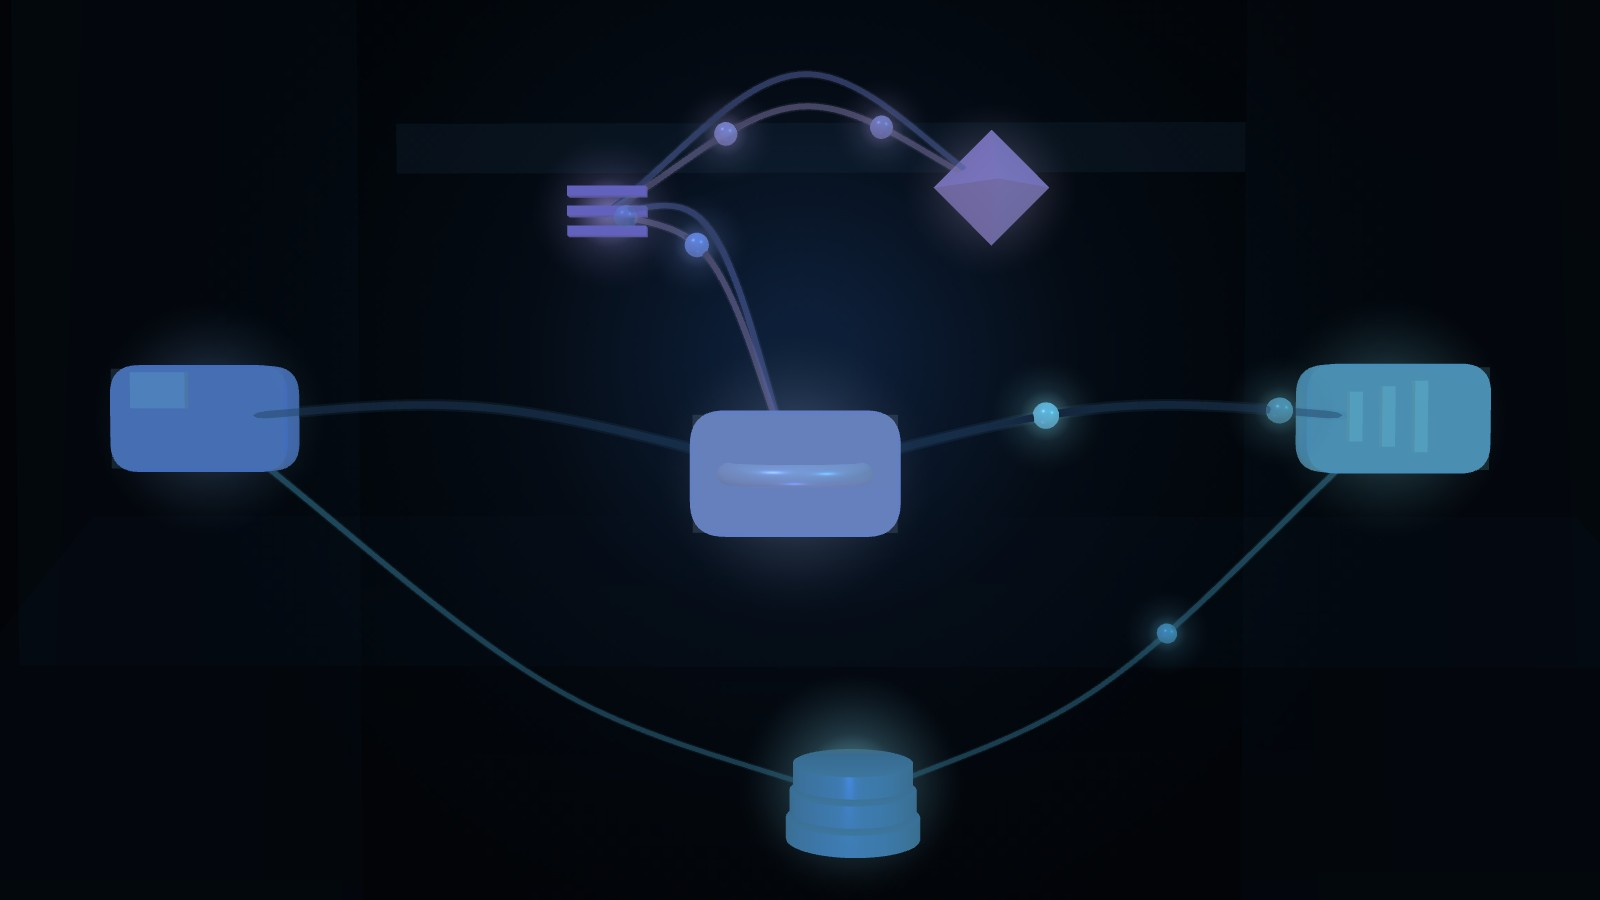
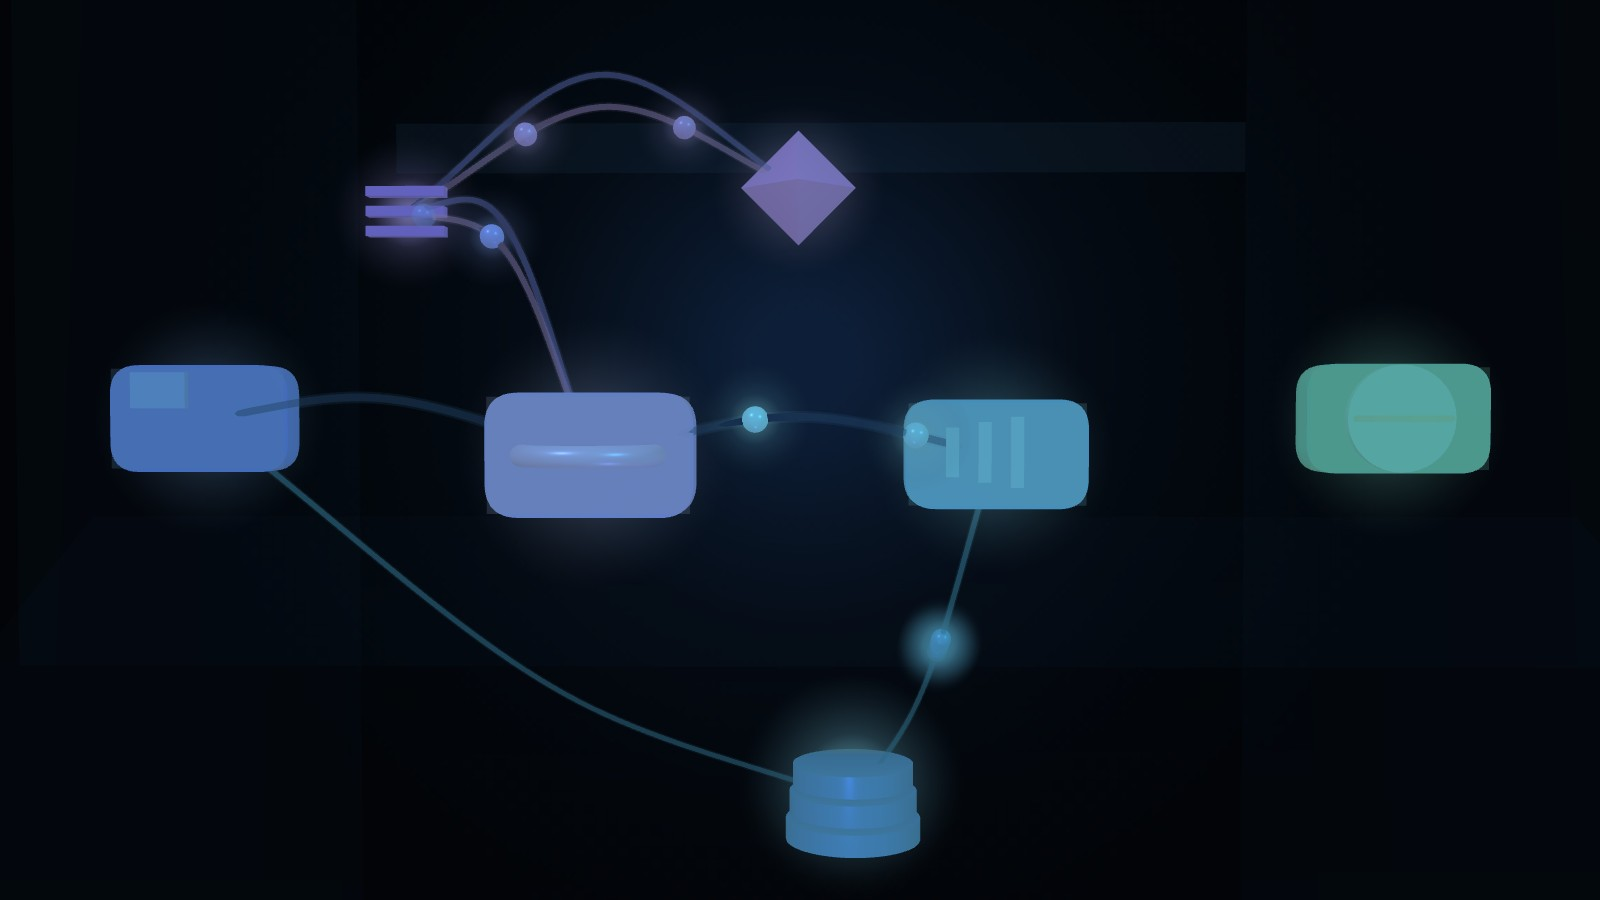
Stabilize object I/O CI lanes

diff --git a/examples/csv-payments/orchestrator-svc/src/test/java/org/pipelineframework/csv/orchestrator/service/AbstractCsvPaymentsEndToEnd.java b/examples/csv-payments/orchestrator-svc/src/test/java/org/pipelineframework/csv/orchestrator/service/AbstractCsvPaymentsEndToEnd.java
@@ -1441,26 +1441,49 @@ abstract class AbstractCsvPaymentsEndToEnd {
     }
 
     private static void ensureKafkaTopics() {
-        Map<String, Object> config = Map.of(
-            AdminClientConfig.BOOTSTRAP_SERVERS_CONFIG,
-            getKafkaContainer().getBootstrapServers());
-        try (AdminClient admin = AdminClient.create(config)) {
-            admin.createTopics(List.of(
-                new NewTopic(PAYMENT_REQUEST_TOPIC, 1, (short) 1),
-                new NewTopic(PAYMENT_RESULT_TOPIC, 1, (short) 1)))
-                .all()
-                .get(30, TimeUnit.SECONDS);
-        } catch (ExecutionException e) {
-            if (e.getCause() instanceof TopicExistsException) {
+        long deadline = System.nanoTime() + TimeUnit.SECONDS.toNanos(120);
+        Throwable lastFailure = null;
+        int attempt = 0;
+
+        while (System.nanoTime() < deadline) {
+            attempt++;
+            Map<String, Object> config = Map.of(
+                AdminClientConfig.BOOTSTRAP_SERVERS_CONFIG,
+                getKafkaContainer().getBootstrapServers(),
+                AdminClientConfig.REQUEST_TIMEOUT_MS_CONFIG,
+                "10000",
+                AdminClientConfig.DEFAULT_API_TIMEOUT_MS_CONFIG,
+                "15000");
+            try (AdminClient admin = AdminClient.create(config)) {
+                admin.createTopics(List.of(
+                    new NewTopic(PAYMENT_REQUEST_TOPIC, 1, (short) 1),
+                    new NewTopic(PAYMENT_RESULT_TOPIC, 1, (short) 1)))
+                    .all()
+                    .get(15, TimeUnit.SECONDS);
                 return;
+            } catch (ExecutionException e) {
+                if (e.getCause() instanceof TopicExistsException) {
+                    return;
+                }
+                lastFailure = e;
+            } catch (InterruptedException e) {
+                Thread.currentThread().interrupt();
+                throw new IllegalStateException("Failed to create Kafka topics for CSV payments E2E", e);
+            } catch (Exception e) {
+                lastFailure = e;
             }
-            throw new IllegalStateException("Failed to create Kafka topics for CSV payments E2E", e);
-        } catch (InterruptedException e) {
-            Thread.currentThread().interrupt();
-            throw new IllegalStateException("Failed to create Kafka topics for CSV payments E2E", e);
-        } catch (Exception e) {
-            throw new IllegalStateException("Failed to create Kafka topics for CSV payments E2E", e);
+
+            if (System.nanoTime() < deadline) {
+                LOG.warnf(lastFailure, "Kafka topic creation attempt %d failed; retrying.", attempt);
+                try {
+                    Thread.sleep(2_000);
+                } catch (InterruptedException e) {
+                    Thread.currentThread().interrupt();
+                    throw new IllegalStateException("Failed to create Kafka topics for CSV payments E2E", e);
+                }
+            }
         }
+        throw new IllegalStateException("Failed to create Kafka topics for CSV payments E2E", lastFailure);
     }
 
     private static boolean isExpectedClosedStream(IOException e) {

diff --git a/framework/runtime/src/main/java/org/pipelineframework/telemetry/ApmCompatibilityMetrics.java b/framework/runtime/src/main/java/org/pipelineframework/telemetry/ApmCompatibilityMetrics.java
@@ -31,14 +31,10 @@ import io.opentelemetry.api.metrics.Meter;
  */
 public final class ApmCompatibilityMetrics {
 
-    private static final Meter METER = GlobalOpenTelemetry.getMeter("org.pipelineframework.apm");
-
-    private static final LongCounter TRANSACTION_COUNT =
-        METER.counterBuilder("apm.service.transaction.count").build();
-    private static final LongCounter ERROR_COUNT =
-        METER.counterBuilder("apm.service.error.count").build();
-    private static final DoubleHistogram TRANSACTION_DURATION =
-        METER.histogramBuilder("apm.service.transaction.duration").setUnit("ms").build();
+    private static volatile Meter meter;
+    private static volatile LongCounter transactionCount;
+    private static volatile LongCounter errorCount;
+    private static volatile DoubleHistogram transactionDuration;
 
     private static final AttributeKey<String> TRANSACTION_TYPE = AttributeKey.stringKey("transaction.type");
     private static final AttributeKey<String> TRANSACTION_NAME = AttributeKey.stringKey("transaction.name");
@@ -64,15 +60,39 @@ public final class ApmCompatibilityMetrics {
         record(durationMs, true);
     }
 
+    static void resetForTest() {
+        meter = null;
+        transactionCount = null;
+        errorCount = null;
+        transactionDuration = null;
+    }
+
     private static void record(double durationMs, boolean error) {
+        ensureInitialized();
         Attributes attributes = Attributes.builder()
             .put(TRANSACTION_TYPE, "Other")
             .put(TRANSACTION_NAME, "OtherTransaction/OrchestratorService/Run")
             .build();
-        TRANSACTION_COUNT.add(1, attributes);
-        TRANSACTION_DURATION.record(durationMs, attributes);
+        transactionCount.add(1, attributes);
+        transactionDuration.record(durationMs, attributes);
         if (error) {
-            ERROR_COUNT.add(1, attributes);
+            errorCount.add(1, attributes);
+        }
+    }
+
+    private static void ensureInitialized() {
+        if (meter != null) {
+            return;
+        }
+        synchronized (ApmCompatibilityMetrics.class) {
+            if (meter != null) {
+                return;
+            }
+            Meter localMeter = GlobalOpenTelemetry.getMeter("org.pipelineframework.apm");
+            transactionCount = localMeter.counterBuilder("apm.service.transaction.count").build();
+            errorCount = localMeter.counterBuilder("apm.service.error.count").build();
+            transactionDuration = localMeter.histogramBuilder("apm.service.transaction.duration").setUnit("ms").build();
+            meter = localMeter;
         }
     }
 }

diff --git a/framework/runtime/src/main/java/org/pipelineframework/PipelineStepExecutor.java b/framework/runtime/src/main/java/org/pipelineframework/PipelineStepExecutor.java
@@ -18,6 +18,7 @@ package org.pipelineframework;
 
 import java.text.MessageFormat;
 import java.time.Duration;
+import java.util.List;
 import java.util.Optional;
 import java.util.function.Supplier;
 import jakarta.enterprise.context.ApplicationScoped;
@@ -707,6 +708,30 @@ class PipelineStepExecutor {
                         output);
                 }
                 return output;
+            })
+            .onFailure(step::shouldRetry)
+            .invoke(t -> PipelineTelemetry.recordRetry(step.getClass(), t))
+            .onFailure(step::shouldRetry)
+            .retry()
+            .withBackOff(step.retryWait(), step.maxBackoff())
+            .withJitter(step.jitter() ? 0.5 : 0.0)
+            .atMost(step.retryLimit())
+            .onFailure().recoverWithMulti(t -> {
+                if (step.shouldPropagateWithoutRecovery(t)) {
+                    return Multi.createFrom().failure(t);
+                }
+                logger.infof(
+                    "Step %s completed all retries (%s attempts) with failure: %s",
+                    step.getClass().getSimpleName(),
+                    step.retryLimit(),
+                    t.getMessage()
+                );
+                if (step.recoverOnFailure()) {
+                    List<I> sample = item == null ? List.of() : List.of(item);
+                    return step.rejectStream(sample, item == null ? 0L : 1L, t)
+                        .onItem().transformToMulti(ignored -> Multi.createFrom().empty());
+                }
+                return Multi.createFrom().failure(t);
             }));
     }
 

diff --git a/framework/runtime/src/main/java/org/pipelineframework/PipelineExecutionService.java b/framework/runtime/src/main/java/org/pipelineframework/PipelineExecutionService.java
@@ -64,6 +64,8 @@ import org.pipelineframework.orchestrator.TransitionWorkerCommand;
 import org.pipelineframework.orchestrator.TransitionWorkerExecutor;
 import org.pipelineframework.orchestrator.TransitionWorkerOutcome;
 import org.pipelineframework.orchestrator.release.PipelineContractDescriptor;
+import org.pipelineframework.step.ConfigFactory;
+import org.pipelineframework.step.Configurable;
 import org.pipelineframework.step.StepManyToMany;
 import org.pipelineframework.step.functional.ManyToOne;
 
@@ -94,6 +96,9 @@ public class PipelineExecutionService implements PipelineTransitionWorker {
 
   @Inject
   PipelineStepResolver pipelineStepResolver;
+
+  @Inject
+  ConfigFactory configFactory;
 
   @Inject
   ExecutionHooks executionHooks;
@@ -726,10 +731,23 @@ public class PipelineExecutionService implements PipelineTransitionWorker {
 
   private List<Object> loadStepsForExecution() {
     try {
-      return loadPipelineSteps();
+      List<Object> steps = loadPipelineSteps();
+      initialiseConfigurableSteps(steps);
+      return steps;
     } catch (PipelineConfigurationException e) {
       LOG.errorf(e, "Failed to load pipeline configuration: %s", e.getMessage());
       return null;
+    }
+  }
+
+  private void initialiseConfigurableSteps(List<Object> steps) {
+    if (steps == null) {
+      return;
+    }
+    for (Object step : steps) {
+      if (step instanceof Configurable configurable) {
+        configurable.initialiseWithConfig(configFactory.buildConfig(step.getClass(), pipelineConfig));
+      }
     }
   }
 

diff --git a/framework/runtime/src/test/java/org/pipelineframework/PipelineStepExecutorTest.java b/framework/runtime/src/test/java/org/pipelineframework/PipelineStepExecutorTest.java
@@ -267,7 +267,7 @@ class PipelineStepExecutorTest {
     }
 
     @Test
-    void oneToManyAwaitParentBypassesStepApplyRetryRecoveryAndRejectPolicies() {
+    void oneToManyAwaitParentAppliesRetryRecoveryAndRejectPoliciesWithoutSyntheticBuffer() {
         RecoveringOneToManyStep step = new RecoveringOneToManyStep();
 
         try {
@@ -284,12 +284,12 @@ class PipelineStepExecutorTest {
             AssertSubscriber<String> subscriber = ((Multi<String>) result)
                 .subscribe()
                 .withSubscriber(AssertSubscriber.create(Long.MAX_VALUE));
-            subscriber.awaitFailure(Duration.ofSeconds(5));
+            subscriber.awaitCompletion(Duration.ofSeconds(5));
 
-            assertTrue(subscriber.getFailure() instanceof RuntimeException);
-            assertEquals("stream boom", subscriber.getFailure().getMessage());
+            subscriber.assertCompleted();
+            subscriber.assertHasNotReceivedAnyItem();
             assertEquals(1, step.applyOneToManyCalls());
-            assertTrue(!step.rejectCalled());
+            assertTrue(step.rejectCalled());
         } finally {
             AwaitExecutionContextHolder.clear();
         }

diff --git a/framework/runtime/src/test/java/org/pipelineframework/telemetry/ApmCompatibilityMetricsTest.java b/framework/runtime/src/test/java/org/pipelineframework/telemetry/ApmCompatibilityMetricsTest.java
@@ -41,6 +41,7 @@ class ApmCompatibilityMetricsTest {
             .build();
         GlobalOpenTelemetry.resetForTest();
         GlobalOpenTelemetry.set(sdk);
+        ApmCompatibilityMetrics.resetForTest();
 
         try {
             ApmCompatibilityMetrics.recordOrchestratorSuccess(123.0);
@@ -65,6 +66,7 @@ class ApmCompatibilityMetricsTest {
         } finally {
             meterProvider.shutdown();
             GlobalOpenTelemetry.resetForTest();
+            ApmCompatibilityMetrics.resetForTest();
         }
     }
 }